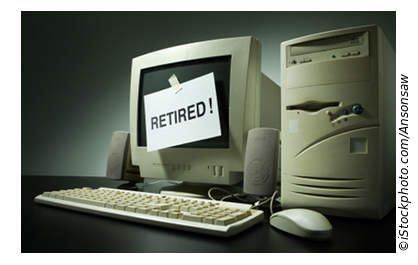
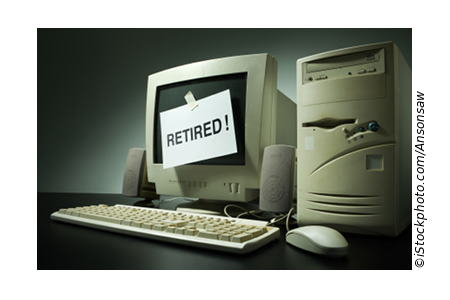
updated years in my experience, and resized image cavance to support google local busines pages requirements.

diff --git a/content/home/more.md b/content/home/more.md
@@ -22,7 +22,7 @@ weight = 20
 To provide information technology assistance to the public.
 
 ## Professional Work History
-2009 - 2018 Independent IT Service to the public - Owner/Operator - Technical Solutions Provider
+2009 - 2020 Independent IT Service to the public - Owner/Operator - Technical Solutions Provider
 
 Servicing the Santa Rosa community and the surrounding areas in the following ways:
 
